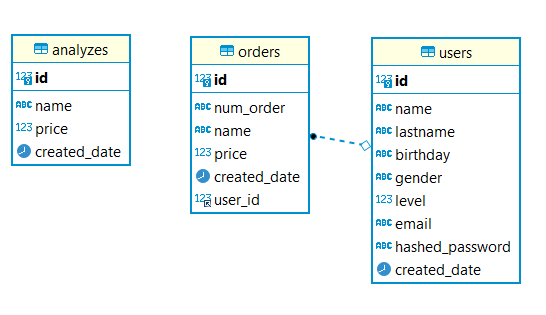
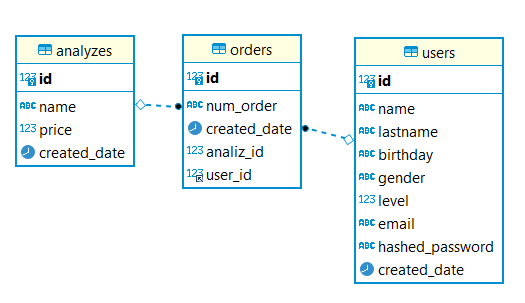
СрChange БBD

Changed region(s): [[0.0, 0.0891, 0.9752, 0.9505]]

diff --git a/site_api.py b/site_api.py
@@ -113,8 +113,8 @@ def get_orders(page=1):
         if orders.count() > 0:
             total = orders.count()
             for order in orders[offset: offset + PERPAGE]:
-                result[order.id] = [order.num_order, order.user.email, order.name,
-                                    order.price, order.created_date.strftime('%d.%m.%Y')]
+                result[order.id] = [order.num_order, order.user.email, order.analiz.name,
+                                    order.analiz.price, order.created_date.strftime('%d.%m.%Y')]
             a_json = jsonify({'status': 'orders', 'result': result})
             pagination = Pagination(page=page, per_page=PERPAGE, total=total,
                                     items=orders[offset: offset + PERPAGE],
@@ -135,7 +135,7 @@ def get_orders(page=1):
         total = len(orders)
         for order in orders[offset: offset + PERPAGE]:
             result[order.id] = [order.num_order, order.user.email,
-                                order.name, order.price, order.created_date.strftime('%d.%m.%Y')]
+                                order.analiz.name, order.analiz.price, order.created_date.strftime('%d.%m.%Y')]
         a_json = jsonify({'status': 'orders', 'result': result})
     pagination = Pagination(page=page, per_page=PERPAGE, total=total,
                             items=orders[offset: offset + PERPAGE],

diff --git a/data/orders.py b/data/orders.py
@@ -11,14 +11,17 @@ class Order(SqlAlchemyBase, UserMixin):
                            primary_key=True,
                            autoincrement=True)
     num_order = sqlalchemy.Column(sqlalchemy.String)
-    name = sqlalchemy.Column(sqlalchemy.String)
-    price = sqlalchemy.Column(sqlalchemy.Integer)
     created_date = sqlalchemy.Column(sqlalchemy.DateTime,
                                      default=datetime.now)
     user_id = sqlalchemy.Column(sqlalchemy.Integer,
                                 sqlalchemy.ForeignKey("users.id"),
                                 nullable=False)
+    analiz_id = sqlalchemy.Column(sqlalchemy.Integer,
+                                  sqlalchemy.ForeignKey("analyzes.id"),
+                                  nullable=False)
+
     user = orm.relationship("User")
+    analiz = orm.relationship("Analysis")
 
     def __repr__(self):
         return f'База {__class__.__name__} -> {self.name}'

diff --git a/data/analyzes.py b/data/analyzes.py
@@ -1,6 +1,7 @@
 import sqlalchemy
 from data.db_session import SqlAlchemyBase
 from datetime import datetime
+from sqlalchemy import orm
 
 
 class Analysis(SqlAlchemyBase):
@@ -12,6 +13,8 @@ class Analysis(SqlAlchemyBase):
     price = sqlalchemy.Column(sqlalchemy.Integer)
     created_date = sqlalchemy.Column(sqlalchemy.DateTime,
                                      default=datetime.now)
+
+    order = orm.relationship("Order", back_populates="analiz")
 
     def __repr__(self):
         return f'База {__class__.__name__} -> {self.name}'

diff --git a/server.py b/server.py
@@ -197,8 +197,7 @@ def order():
         count += 1
         order_lst = Order()
         order_lst.user_id = current_user.id
-        order_lst.name = name
-        order_lst.price = lst[1]
+        order_lst.analiz_id = lst[0]
         order_lst.num_order = num_order
         current_user.order.append(order_lst)
     db_sess.merge(current_user)

diff --git a/README.md b/README.md
@@ -37,15 +37,14 @@
 ### 3. orders - таблица с заказами
 * номер (id)
 * номер заказа (num_order)
-* наименование исследования (name)
-* цена исследования (price)
 * дата создания заказа (created_date)
 * номер пользователя (user_id)
+* номер исследования (analiz_id)
 
 ### Перед началом работы необходимо установить зависимости: 
 ### pip install -r requirements.txt
 
-### При запуске программ предложит перейти на страницу http://127.0.0.1:8000 переход, на которую открывает главную HTML-страницу:
+### При запуске программа предложит перейти на страницу http://127.0.0.1:8000, переход на которую открывает главную HTML-страницу:
 ![Главная страница](/mdimages/img2.png)
 
 ## Возможности обычного пользователя
@@ -53,7 +52,7 @@
 * Регистрация
 * ![Форма регистрации](/mdimages/img4.png)
   #### Условия:
-  * Почта (email): обязательно для заполнения, корректный формат почты, максимум 25 символов, не должен совпадать с уже существующими
+  * Почта (email): обязательно для заполнения, корректный формат почты, максимум 25 символов, не должна совпадать с уже зарегистрированной
   * Пароль: обязательно для заполнения, от 6 до 30 символов
   * Повтор пароля: обязательно для заполнения, максимум 30 символов, должен совпадать с паролем
   * Имя: обязательно для заполнения, от 2 до 25 символов
@@ -92,7 +91,7 @@
    #### Условия:
    * логин: обязательное поле, корректный формат, максимум 25 символов
    * пароль: обязательное поле, от 6 до 30 символов
-   * логин и пароль должны соответствовать друг другу
+  
 
 * Надпись "Имя пользователя": Личный кабинет и Выйти
 * ![Имя пользователя с Личным кабинетом и Выйти](/mdimages/img11.png)
@@ -117,7 +116,7 @@
 * пароль: 123456
 
 
-### Вход в админку в углу слева над "подавлом"
+### Вход в админку в углу слева над "подвалом"
 <img src="mdimages/admin.png">
 
 ### Панель администратора (все страницы с пагинацией)
@@ -138,7 +137,7 @@
      #### условия:
      * наименование исследования: обязательно для заполнения, не должно превышать 50 символов
      * цена исследования: обязательно для заполнения, число больше 0, меньше 1000000
-  + удаление исследования
+  + #### Удаление исследования
 
 
 * ### Заказы:
@@ -156,3 +155,6 @@
   + #### Просмотр всех пользователей
   + #### Удаление пользователя
   + ![Пользователи](/mdimages/img20.png)
+
+## Состав приложения
+![Состав приложения](/mdimages/img21.jpg)
